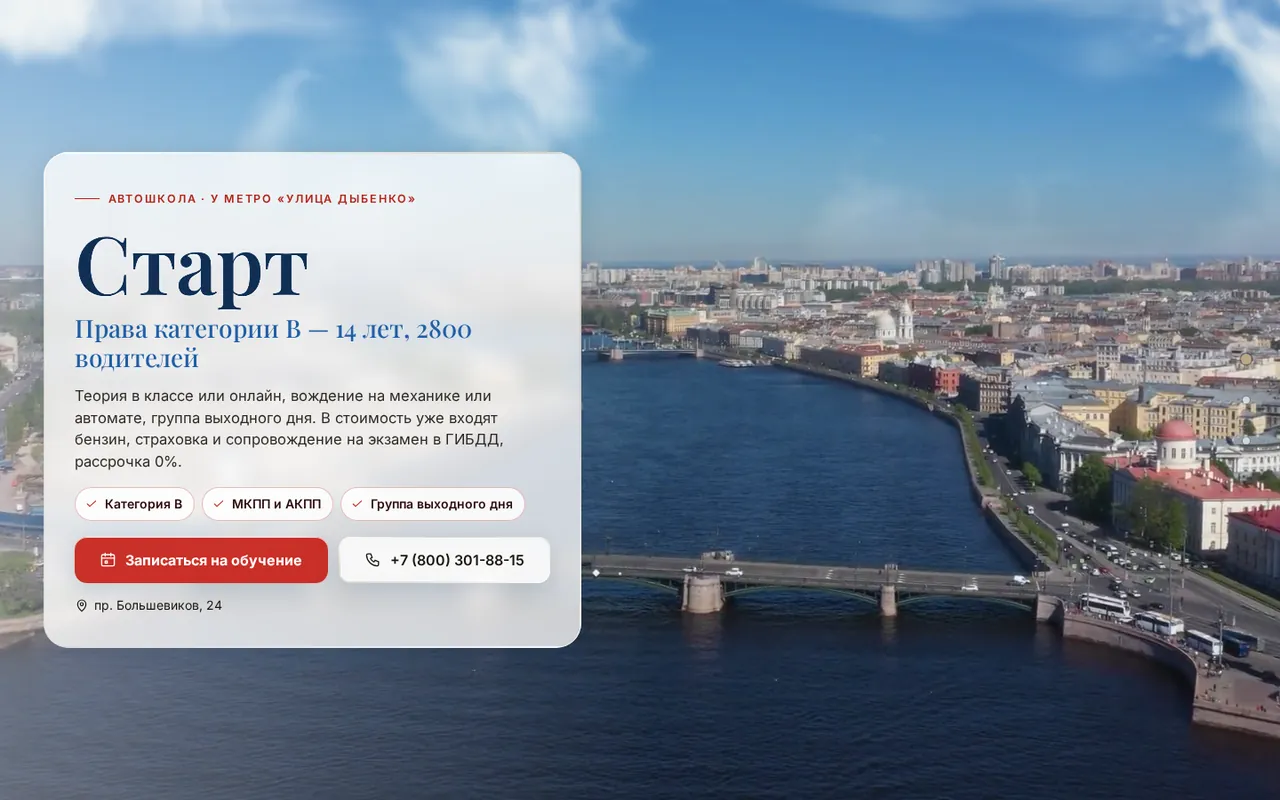
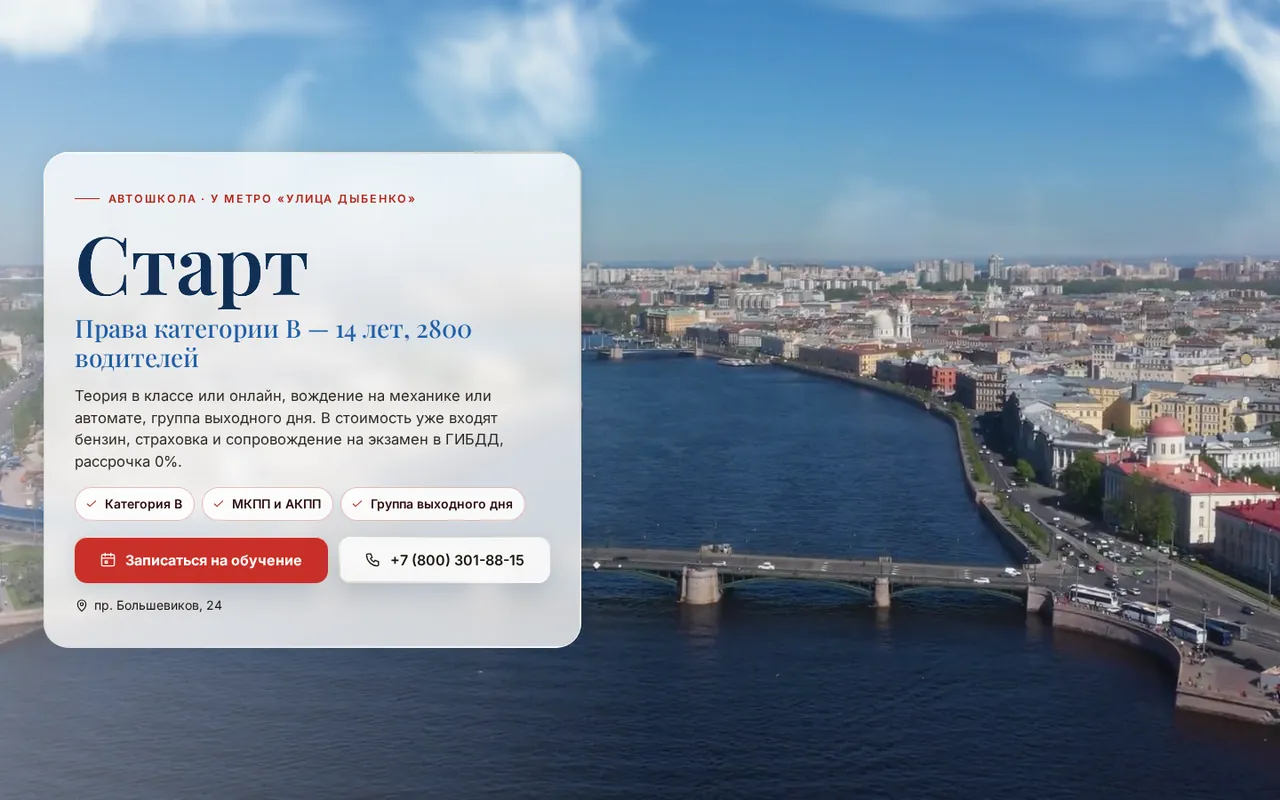
Текст не выходит за плашки: название первого экрана подгоняется под плашку, витрина показывает экраны целиком; цены на узких телефонах

diff --git a/vitrina/index.html b/vitrina/index.html
@@ -31,13 +31,14 @@ h1{text-wrap:balance;font-size:clamp(30px,3.4vw,48px);line-height:1.08;letter-sp
 .stage{position:relative;width:100%;aspect-ratio:16/11.2}
 .dv{position:absolute}
 .dv img{display:block;width:100%;height:100%;object-fit:cover;object-position:center top}
+.mon .scr img,.lap .scr img{height:auto}
 .mon{left:18%;top:0;width:68%}
-.mon .scr{aspect-ratio:16/9;padding:1.1%;background:#0e1116;border-radius:14px;box-shadow:0 30px 60px -20px rgba(20,35,58,.35)}
+.mon .scr{padding:1.1%;background:#0e1116;border-radius:14px;box-shadow:0 30px 60px -20px rgba(20,35,58,.35)}
 .mon .scr img{border-radius:6px}
 .mon .neck{width:14%;aspect-ratio:1/.95;margin:0 auto;background:linear-gradient(90deg,#c9d0d8,#eef1f4 45%,#c3cad2);clip-path:polygon(18% 0,82% 0,100% 100%,0 100%)}
 .mon .foot{width:36%;aspect-ratio:36/1.5;margin:-1px auto 0;border-radius:6px 6px 3px 3px;background:linear-gradient(180deg,#e9edf1,#b9c1ca);box-shadow:0 12px 20px -8px rgba(20,35,58,.4)}
 .lap{left:0;bottom:4%;width:46%}
-.lap .scr{aspect-ratio:16/10;padding:2.2% 2.2% 3%;background:#0b0d11;border-radius:16px 16px 4px 4px;position:relative;box-shadow:0 0 0 1px #2a2f37 inset}
+.lap .scr{padding:2.2% 2.2% 3%;background:#0b0d11;border-radius:16px 16px 4px 4px;position:relative;box-shadow:0 0 0 1px #2a2f37 inset}
 .lap .scr::before{content:"";position:absolute;top:1%;left:50%;width:.9%;aspect-ratio:1;border-radius:50%;background:#2b3442;transform:translateX(-50%)}
 .lap .scr img{border-radius:3px}
 .lap .base{position:relative;height:0;padding-bottom:3.2%;margin:0 -7%;background:linear-gradient(180deg,#e7ebef 0,#c8cfd7 60%,#9aa3ad 100%);border-radius:0 0 18px 18px/0 0 60% 60%;box-shadow:0 22px 30px -14px rgba(20,35,58,.45)}
@@ -80,7 +81,7 @@ h1{text-wrap:balance;font-size:clamp(30px,3.4vw,48px);line-height:1.08;letter-sp
   <div class="stage" id="stage" aria-label="Новый сайт на компьютере, ноутбуке и телефоне">
     <div class="dv mon"><div class="scr"><img src="img/monitor.webp?v=2" alt="" width="1600" height="900"></div><div class="neck"></div><div class="foot"></div></div>
     <div class="dv lap"><div class="scr"><img src="img/laptop.webp?v=2" alt="" width="1280" height="800"></div><div class="base"></div></div>
-    <div class="dv ph" id="ph"><div class="ss-phone z-phone" data-frame="pro" style="width: 340px; height: 714.953px; padding: 2.38318px; border-radius: 61.1682px; --ps: 0.794392523364486px;"><svg class="ss-phone__bands" width="100%" height="100%" aria-hidden="true"><defs><linearGradient id="ph-band" x1="0.2" y1="0" x2="0.8" y2="1"><stop offset="0" style="stop-color: var(--ss-phone-band-1);"></stop><stop offset="0.22" style="stop-color: var(--ss-phone-band-2);"></stop><stop offset="0.48" style="stop-color: var(--ss-phone-band-3);"></stop><stop offset="0.74" style="stop-color: var(--ss-phone-band-4);"></stop><stop offset="1" style="stop-color: var(--ss-phone-band-5);"></stop></linearGradient><linearGradient id="ph-clay" x1="0" y1="0" x2="0" y2="1"><stop offset="0" style="stop-color: var(--ss-phone-clay-top);"></stop><stop offset="1" style="stop-color: var(--ss-phone-clay-bottom);"></stop></linearGradient></defs><g transform="translate(10.327102803738317 10.327102803738317)" stroke-linejoin="round"><path d="M262.94 0.00L267.09 0.06L270.49 0.24L273.65 0.53L276.65 0.94L279.51 1.47L282.27 2.11L284.93 2.87L287.50 3.74L289.97 4.72L292.36 5.81L294.65 7.02L296.85 8.33L298.96 9.75L300.98 11.27L302.90 12.90L304.72 14.62L306.45 16.45L308.08 18.37L309.60 20.38L311.02 22.49L312.33 24.70L313.53 26.99L314.63 29.37L315.61 31.85L316.48 34.41L317.24 37.07L317.88 39.83L318.41 42.70L318.82 45.69L319.11 48.85L319.29 52.25L319.35 56.40L319.35 637.90L319.29 642.04L319.11 645.45L318.82 648.60L318.41 651.60L317.88 654.47L317.24 657.23L316.48 659.89L315.61 662.45L314.63 664.92L313.53 667.31L312.33 669.60L311.02 671.80L309.60 673.91L308.08 675.93L306.45 677.85L304.72 679.68L302.90 681.40L300.98 683.03L298.96 684.55L296.85 685.97L294.65 687.28L292.36 688.49L289.97 689.58L287.50 690.56L284.93 691.43L282.27 692.19L279.51 692.83L276.65 693.36L273.65 693.77L270.49 694.06L267.09 694.24L262.94 694.30L56.40 694.30L52.25 694.24L48.85 694.06L45.69 693.77L42.70 693.36L39.83 692.83L37.07 692.19L34.41 691.43L31.85 690.56L29.37 689.58L26.99 688.49L24.70 687.28L22.49 685.97L20.38 684.55L18.37 683.03L16.45 681.40L14.62 679.68L12.90 677.85L11.27 675.93L9.75 673.91L8.33 671.80L7.02 669.60L5.81 667.31L4.72 664.92L3.74 662.45L2.87 659.89L2.11 657.23L1.47 654.47L0.94 651.60L0.53 648.60L0.24 645.45L0.06 642.04L0.00 637.90L0.00 56.40L0.06 52.25L0.24 48.85L0.53 45.69L0.94 42.70L1.47 39.83L2.11 37.07L2.87 34.41L3.74 31.85L4.72 29.37L5.81 26.99L7.02 24.70L8.33 22.49L9.75 20.38L11.27 18.37L12.90 16.45L14.62 14.62L16.45 12.90L18.37 11.27L20.38 9.75L22.49 8.33L24.70 7.02L26.99 5.81L29.37 4.72L31.85 3.74L34.41 2.87L37.07 2.11L39.83 1.47L42.70 0.94L45.69 0.53L48.85 0.24L52.25 0.06L56.40 0.00Z" fill="none" stroke-width="20.654205607476634" stroke="url(#ph-band)"></path><path d="M262.94 0.00L267.09 0.06L270.49 0.24L273.65 0.53L276.65 0.94L279.51 1.47L282.27 2.11L284.93 2.87L287.50 3.74L289.97 4.72L292.36 5.81L294.65 7.02L296.85 8.33L298.96 9.75L300.98 11.27L302.90 12.90L304.72 14.62L306.45 16.45L308.08 18.37L309.60 20.38L311.02 22.49L312.33 24.70L313.53 26.99L314.63 29.37L315.61 31.85L316.48 34.41L317.24 37.07L317.88 39.83L318.41 42.70L318.82 45.69L319.11 48.85L319.29 52.25L319.35 56.40L319.35 637.90L319.29 642.04L319.11 645.45L318.82 648.60L318.41 651.60L317.88 654.47L317.24 657.23L316.48 659.89L315.61 662.45L314.63 664.92L313.53 667.31L312.33 669.60L311.02 671.80L309.60 673.91L308.08 675.93L306.45 677.85L304.72 679.68L302.90 681.40L300.98 683.03L298.96 684.55L296.85 685.97L294.65 687.28L292.36 688.49L289.97 689.58L287.50 690.56L284.93 691.43L282.27 692.19L279.51 692.83L276.65 693.36L273.65 693.77L270.49 694.06L267.09 694.24L262.94 694.30L56.40 694.30L52.25 694.24L48.85 694.06L45.69 693.77L42.70 693.36L39.83 692.83L37.07 692.19L34.41 691.43L31.85 690.56L29.37 689.58L26.99 688.49L24.70 687.28L22.49 685.97L20.38 684.55L18.37 683.03L16.45 681.40L14.62 679.68L12.90 677.85L11.27 675.93L9.75 673.91L8.33 671.80L7.02 669.60L5.81 667.31L4.72 664.92L3.74 662.45L2.87 659.89L2.11 657.23L1.47 654.47L0.94 651.60L0.53 648.60L0.24 645.45L0.06 642.04L0.00 637.90L0.00 56.40L0.06 52.25L0.24 48.85L0.53 45.69L0.94 42.70L1.47 39.83L2.11 37.07L2.87 34.41L3.74 31.85L4.72 29.37L5.81 26.99L7.02 24.70L8.33 22.49L9.75 20.38L11.27 18.37L12.90 16.45L14.62 14.62L16.45 12.90L18.37 11.27L20.38 9.75L22.49 8.33L24.70 7.02L26.99 5.81L29.37 4.72L31.85 3.74L34.41 2.87L37.07 2.11L39.83 1.47L42.70 0.94L45.69 0.53L48.85 0.24L52.25 0.06L56.40 0.00Z" fill="none" stroke-width="15.88785046728972" style="stroke: var(--ss-phone-rim);"></path><path d="M262.94 0.00L267.09 0.06L270.49 0.24L273.65 0.53L276.65 0.94L279.51 1.47L282.27 2.11L284.93 2.87L287.50 3.74L289.97 4.72L292.36 5.81L294.65 7.02L296.85 8.33L298.96 9.75L300.98 11.27L302.90 12.90L304.72 14.62L306.45 16.45L308.08 18.37L309.60 20.38L311.02 22.49L312.33 24.70L313.53 26.99L314.63 29.37L315.61 31.85L316.48 34.41L317.24 37.07L317.88 39.83L318.41 42.70L318.82 45.69L319.11 48.85L319.29 52.25L319.35 56.40L319.35 637.90L319.29 642.04L319.11 645.45L318.82 648.60L318.41 651.60L317.88 654.47L317.24 657.23L316.48 659.89L315.61 662.45L314.63 664.92L313.53 667.31L312.33 669.60L311.02 671.80L309.60 673.91L308.08 675.93L306.45 677.85L304.72 679.68L302.90 681.40L300.98 683.03L298.96 684.55L296.85 685.97L294.65 687.28L292.36 688.49L289.97 689.58L287.50 690.56L284.93 691.43L282.27 692.19L279.51 692.83L276.65 693.36L273.65 693.77L270.49 694.06L267.09 694.24L262.94 694.30L56.40 694.30L52.25 694.24L48.85 694.06L45.69 693.77L42.70 693.36L39.83 692.83L37.07 692.19L34.41 691.43L31.85 690.56L29.37 689.58L26.99 688.49L24.70 687.28L22.49 685.97L20.38 684.55L18.37 683.03L16.45 681.40L14.62 679.68L12.90 677.85L11.27 675.93L9.75 673.91L8.33 671.80L7.02 669.60L5.81 667.31L4.72 664.92L3.74 662.45L2.87 659.89L2.11 657.23L1.47 654.47L0.94 651.60L0.53 648.60L0.24 645.45L0.06 642.04L0.00 637.90L0.00 56.40L0.06 52.25L0.24 48.85L0.53 45.69L0.94 42.70L1.47 39.83L2.11 37.07L2.87 34.41L3.74 31.85L4.72 29.37L5.81 26.99L7.02 24.70L8.33 22.49L9.75 20.38L11.27 18.37L12.90 16.45L14.62 14.62L16.45 12.90L18.37 11.27L20.38 9.75L22.49 8.33L24.70 7.02L26.99 5.81L29.37 4.72L31.85 3.74L34.41 2.87L37.07 2.11L39.83 1.47L42.70 0.94L45.69 0.53L48.85 0.24L52.25 0.06L56.40 0.00Z" fill="none" stroke-width="14.69626168224299" style="stroke: var(--ss-phone-glass);"></path></g></svg><div class="ss-phone__glass" style="padding: 7.94393px; border-radius: 58.785px;"><div class="ss-phone__window" style="width: 319.346px; height: 694.299px; clip-path: path(&quot;M 262.94 0 L 267.09 0.06 L 270.49 0.24 L 273.65 0.53 L 276.65 0.94 L 279.51 1.47 L 282.27 2.11 L 284.93 2.87 L 287.5 3.74 L 289.97 4.72 L 292.36 5.81 L 294.65 7.02 L 296.85 8.33 L 298.96 9.75 L 300.98 11.27 L 302.9 12.9 L 304.72 14.62 L 306.45 16.45 L 308.08 18.37 L 309.6 20.38 L 311.02 22.49 L 312.33 24.7 L 313.53 26.99 L 314.63 29.37 L 315.61 31.85 L 316.48 34.41 L 317.24 37.07 L 317.88 39.83 L 318.41 42.7 L 318.82 45.69 L 319.11 48.85 L 319.29 52.25 L 319.35 56.4 L 319.35 637.9 L 319.29 642.04 L 319.11 645.45 L 318.82 648.6 L 318.41 651.6 L 317.88 654.47 L 317.24 657.23 L 316.48 659.89 L 315.61 662.45 L 314.63 664.92 L 313.53 667.31 L 312.33 669.6 L 311.02 671.8 L 309.6 673.91 L 308.08 675.93 L 306.45 677.85 L 304.72 679.68 L 302.9 681.4 L 300.98 683.03 L 298.96 684.55 L 296.85 685.97 L 294.65 687.28 L 292.36 688.49 L 289.97 689.58 L 287.5 690.56 L 284.93 691.43 L 282.27 692.19 L 279.51 692.83 L 276.65 693.36 L 273.65 693.77 L 270.49 694.06 L 267.09 694.24 L 262.94 694.3 L 56.4 694.3 L 52.25 694.24 L 48.85 694.06 L 45.69 693.77 L 42.7 693.36 L 39.83 692.83 L 37.07 692.19 L 34.41 691.43 L 31.85 690.56 L 29.37 689.58 L 26.99 688.49 L 24.7 687.28 L 22.49 685.97 L 20.38 684.55 L 18.37 683.03 L 16.45 681.4 L 14.62 679.68 L 12.9 677.85 L 11.27 675.93 L 9.75 673.91 L 8.33 671.8 L 7.02 669.6 L 5.81 667.31 L 4.72 664.92 L 3.74 662.45 L 2.87 659.89 L 2.11 657.23 L 1.47 654.47 L 0.94 651.6 L 0.53 648.6 L 0.24 645.45 L 0.06 642.04 L 0 637.9 L 0 56.4 L 0.06 52.25 L 0.24 48.85 L 0.53 45.69 L 0.94 42.7 L 1.47 39.83 L 2.11 37.07 L 2.87 34.41 L 3.74 31.85 L 4.72 29.37 L 5.81 26.99 L 7.02 24.7 L 8.33 22.49 L 9.75 20.38 L 11.27 18.37 L 12.9 16.45 L 14.62 14.62 L 16.45 12.9 L 18.37 11.27 L 20.38 9.75 L 22.49 8.33 L 24.7 7.02 L 26.99 5.81 L 29.37 4.72 L 31.85 3.74 L 34.41 2.87 L 37.07 2.11 L 39.83 1.47 L 42.7 0.94 L 45.69 0.53 L 48.85 0.24 L 52.25 0.06 L 56.4 0 Z&quot;);"><div class="ss-phone__screen" style="width: 402px; height: 874px; transform: scale(0.794393); --ss-screen-r: 64px;"><div class="ss-phone__status"><span class="ss-phone__time">10:02</span><span class="ss-phone__glyphs"><svg viewBox="0 0 20.33 13.67" width="20.33" height="13.67" class="ss-phone__glyph ss-phone__signal"><rect x="0" y="7.34" width="3.333" height="6.33" rx="1.667" fill="currentColor"></rect><rect x="5.667" y="5" width="3.333" height="8.67" rx="1.667" fill="currentColor"></rect><rect x="11.334" y="2.67" width="3.333" height="11" rx="1.667" fill="currentColor"></rect><rect x="17.000999999999998" y="0" width="3.333" height="13.67" rx="1.667" fill="currentColor"></rect></svg><svg viewBox="0 0 19.33 14.33" width="19.33" height="14.33" class="ss-phone__glyph ss-phone__wifi"><path fill-rule="evenodd" fill="currentColor" d="M0.415933 5.54283C0.902185 6.04412 1.66017 5.95818 2.27513 5.41393C4.30595 3.58064 6.83731 2.63535 9.66901 2.63535C12.5007 2.63535 15.0464 3.60928 17.0629 5.41393C17.6636 5.97251 18.4215 6.0298 18.9221 5.54283C19.4226 5.02722 19.4942 4.2538 18.9793 3.70954C16.8341 1.51819 13.3302 0 9.66901 0C6.00783 0 2.48965 1.53251 0.358727 3.72387C-0.156127 4.2538 -0.0989213 5.02722 0.415933 5.55715L0.415933 5.54283ZM3.94841 9.13779C4.50617 9.68205 5.22124 9.62476 5.85051 9.10915C6.88022 8.29276 8.25316 7.73418 9.66901 7.7485C11.0706 7.7485 12.4435 8.29276 13.4875 9.12347C14.1168 9.63908 14.8605 9.66773 15.4039 9.12347C15.9331 8.57921 16.0189 7.7485 15.4611 7.23289C14.0739 5.98683 11.9859 5.11315 9.68332 5.11315C7.38077 5.11315 5.27845 5.98683 3.9055 7.23289C3.41925 7.69121 3.31914 8.47896 3.96271 9.13779L3.94841 9.13779ZM8.72511 13.8929C9.34008 14.4801 9.98365 14.4801 10.5986 13.8929L11.757 12.7757C12.372 12.1742 12.5007 11.4151 11.7999 10.8995C11.2136 10.4841 10.4699 10.212 9.66901 10.212C8.86813 10.212 8.11015 10.4841 7.53809 10.9138C6.83731 11.4151 6.98033 12.1885 7.59529 12.7757L8.73942 13.8929L8.72511 13.8929Z"></path></svg><svg viewBox="0 0 29.33 13.67" width="29.33" height="13.67" class="ss-phone__glyph ss-phone__battery"><path fill="currentColor" d="M0 6.4C0 4.15979 0 3.03969 0.435974 2.18404C0.819467 1.43139 1.43139 0.819467 2.18404 0.435974C3.03969 0 4.15979 0 6.4 0L19.933 0C22.1732 0 23.2933 0 24.149 0.435974C24.9016 0.819467 25.5135 1.43139 25.897 2.18404C26.333 3.03969 26.333 4.15979 26.333 6.4L26.333 7.26666C26.333 9.50687 26.333 10.627 25.897 11.4826C25.5135 12.2353 24.9016 12.8472 24.149 13.2307C23.2933 13.6667 22.1732 13.6667 19.933 13.6667L6.4 13.6667C4.15979 13.6667 3.03969 13.6667 2.18404 13.2307C1.43139 12.8472 0.819467 12.2353 0.435974 11.4826C0 10.627 0 9.50687 0 7.26666L0 6.4Z"></path><path fill-rule="evenodd" fill="currentColor" transform="translate(27.33 4.33)" d="M0 0L0 5C0.601505 4.8625 2 3.75 2 2.5C2 1.25 0.601505 0.1375 0 0Z"></path></svg></span></div><span class="ss-phone__island"></span><div class="ss-phone__content" data-status="true"><img class="ph-shot" src="img/phone.webp?v=2" alt="Новый сайт автошколы «Старт» на телефоне" width="393" height="790"></div><span class="ss-phone__home"></span></div></div></div></div></div>
+    <div class="dv ph" id="ph"><div class="ss-phone z-phone" data-frame="pro" style="width: 340px; height: 714.953px; padding: 2.38318px; border-radius: 61.1682px; --ps: 0.794392523364486px;"><svg class="ss-phone__bands" width="100%" height="100%" aria-hidden="true"><defs><linearGradient id="ph-band" x1="0.2" y1="0" x2="0.8" y2="1"><stop offset="0" style="stop-color: var(--ss-phone-band-1);"></stop><stop offset="0.22" style="stop-color: var(--ss-phone-band-2);"></stop><stop offset="0.48" style="stop-color: var(--ss-phone-band-3);"></stop><stop offset="0.74" style="stop-color: var(--ss-phone-band-4);"></stop><stop offset="1" style="stop-color: var(--ss-phone-band-5);"></stop></linearGradient><linearGradient id="ph-clay" x1="0" y1="0" x2="0" y2="1"><stop offset="0" style="stop-color: var(--ss-phone-clay-top);"></stop><stop offset="1" style="stop-color: var(--ss-phone-clay-bottom);"></stop></linearGradient></defs><g transform="translate(10.327102803738317 10.327102803738317)" stroke-linejoin="round"><path d="M262.94 0.00L267.09 0.06L270.49 0.24L273.65 0.53L276.65 0.94L279.51 1.47L282.27 2.11L284.93 2.87L287.50 3.74L289.97 4.72L292.36 5.81L294.65 7.02L296.85 8.33L298.96 9.75L300.98 11.27L302.90 12.90L304.72 14.62L306.45 16.45L308.08 18.37L309.60 20.38L311.02 22.49L312.33 24.70L313.53 26.99L314.63 29.37L315.61 31.85L316.48 34.41L317.24 37.07L317.88 39.83L318.41 42.70L318.82 45.69L319.11 48.85L319.29 52.25L319.35 56.40L319.35 637.90L319.29 642.04L319.11 645.45L318.82 648.60L318.41 651.60L317.88 654.47L317.24 657.23L316.48 659.89L315.61 662.45L314.63 664.92L313.53 667.31L312.33 669.60L311.02 671.80L309.60 673.91L308.08 675.93L306.45 677.85L304.72 679.68L302.90 681.40L300.98 683.03L298.96 684.55L296.85 685.97L294.65 687.28L292.36 688.49L289.97 689.58L287.50 690.56L284.93 691.43L282.27 692.19L279.51 692.83L276.65 693.36L273.65 693.77L270.49 694.06L267.09 694.24L262.94 694.30L56.40 694.30L52.25 694.24L48.85 694.06L45.69 693.77L42.70 693.36L39.83 692.83L37.07 692.19L34.41 691.43L31.85 690.56L29.37 689.58L26.99 688.49L24.70 687.28L22.49 685.97L20.38 684.55L18.37 683.03L16.45 681.40L14.62 679.68L12.90 677.85L11.27 675.93L9.75 673.91L8.33 671.80L7.02 669.60L5.81 667.31L4.72 664.92L3.74 662.45L2.87 659.89L2.11 657.23L1.47 654.47L0.94 651.60L0.53 648.60L0.24 645.45L0.06 642.04L0.00 637.90L0.00 56.40L0.06 52.25L0.24 48.85L0.53 45.69L0.94 42.70L1.47 39.83L2.11 37.07L2.87 34.41L3.74 31.85L4.72 29.37L5.81 26.99L7.02 24.70L8.33 22.49L9.75 20.38L11.27 18.37L12.90 16.45L14.62 14.62L16.45 12.90L18.37 11.27L20.38 9.75L22.49 8.33L24.70 7.02L26.99 5.81L29.37 4.72L31.85 3.74L34.41 2.87L37.07 2.11L39.83 1.47L42.70 0.94L45.69 0.53L48.85 0.24L52.25 0.06L56.40 0.00Z" fill="none" stroke-width="20.654205607476634" stroke="url(#ph-band)"></path><path d="M262.94 0.00L267.09 0.06L270.49 0.24L273.65 0.53L276.65 0.94L279.51 1.47L282.27 2.11L284.93 2.87L287.50 3.74L289.97 4.72L292.36 5.81L294.65 7.02L296.85 8.33L298.96 9.75L300.98 11.27L302.90 12.90L304.72 14.62L306.45 16.45L308.08 18.37L309.60 20.38L311.02 22.49L312.33 24.70L313.53 26.99L314.63 29.37L315.61 31.85L316.48 34.41L317.24 37.07L317.88 39.83L318.41 42.70L318.82 45.69L319.11 48.85L319.29 52.25L319.35 56.40L319.35 637.90L319.29 642.04L319.11 645.45L318.82 648.60L318.41 651.60L317.88 654.47L317.24 657.23L316.48 659.89L315.61 662.45L314.63 664.92L313.53 667.31L312.33 669.60L311.02 671.80L309.60 673.91L308.08 675.93L306.45 677.85L304.72 679.68L302.90 681.40L300.98 683.03L298.96 684.55L296.85 685.97L294.65 687.28L292.36 688.49L289.97 689.58L287.50 690.56L284.93 691.43L282.27 692.19L279.51 692.83L276.65 693.36L273.65 693.77L270.49 694.06L267.09 694.24L262.94 694.30L56.40 694.30L52.25 694.24L48.85 694.06L45.69 693.77L42.70 693.36L39.83 692.83L37.07 692.19L34.41 691.43L31.85 690.56L29.37 689.58L26.99 688.49L24.70 687.28L22.49 685.97L20.38 684.55L18.37 683.03L16.45 681.40L14.62 679.68L12.90 677.85L11.27 675.93L9.75 673.91L8.33 671.80L7.02 669.60L5.81 667.31L4.72 664.92L3.74 662.45L2.87 659.89L2.11 657.23L1.47 654.47L0.94 651.60L0.53 648.60L0.24 645.45L0.06 642.04L0.00 637.90L0.00 56.40L0.06 52.25L0.24 48.85L0.53 45.69L0.94 42.70L1.47 39.83L2.11 37.07L2.87 34.41L3.74 31.85L4.72 29.37L5.81 26.99L7.02 24.70L8.33 22.49L9.75 20.38L11.27 18.37L12.90 16.45L14.62 14.62L16.45 12.90L18.37 11.27L20.38 9.75L22.49 8.33L24.70 7.02L26.99 5.81L29.37 4.72L31.85 3.74L34.41 2.87L37.07 2.11L39.83 1.47L42.70 0.94L45.69 0.53L48.85 0.24L52.25 0.06L56.40 0.00Z" fill="none" stroke-width="15.88785046728972" style="stroke: var(--ss-phone-rim);"></path><path d="M262.94 0.00L267.09 0.06L270.49 0.24L273.65 0.53L276.65 0.94L279.51 1.47L282.27 2.11L284.93 2.87L287.50 3.74L289.97 4.72L292.36 5.81L294.65 7.02L296.85 8.33L298.96 9.75L300.98 11.27L302.90 12.90L304.72 14.62L306.45 16.45L308.08 18.37L309.60 20.38L311.02 22.49L312.33 24.70L313.53 26.99L314.63 29.37L315.61 31.85L316.48 34.41L317.24 37.07L317.88 39.83L318.41 42.70L318.82 45.69L319.11 48.85L319.29 52.25L319.35 56.40L319.35 637.90L319.29 642.04L319.11 645.45L318.82 648.60L318.41 651.60L317.88 654.47L317.24 657.23L316.48 659.89L315.61 662.45L314.63 664.92L313.53 667.31L312.33 669.60L311.02 671.80L309.60 673.91L308.08 675.93L306.45 677.85L304.72 679.68L302.90 681.40L300.98 683.03L298.96 684.55L296.85 685.97L294.65 687.28L292.36 688.49L289.97 689.58L287.50 690.56L284.93 691.43L282.27 692.19L279.51 692.83L276.65 693.36L273.65 693.77L270.49 694.06L267.09 694.24L262.94 694.30L56.40 694.30L52.25 694.24L48.85 694.06L45.69 693.77L42.70 693.36L39.83 692.83L37.07 692.19L34.41 691.43L31.85 690.56L29.37 689.58L26.99 688.49L24.70 687.28L22.49 685.97L20.38 684.55L18.37 683.03L16.45 681.40L14.62 679.68L12.90 677.85L11.27 675.93L9.75 673.91L8.33 671.80L7.02 669.60L5.81 667.31L4.72 664.92L3.74 662.45L2.87 659.89L2.11 657.23L1.47 654.47L0.94 651.60L0.53 648.60L0.24 645.45L0.06 642.04L0.00 637.90L0.00 56.40L0.06 52.25L0.24 48.85L0.53 45.69L0.94 42.70L1.47 39.83L2.11 37.07L2.87 34.41L3.74 31.85L4.72 29.37L5.81 26.99L7.02 24.70L8.33 22.49L9.75 20.38L11.27 18.37L12.90 16.45L14.62 14.62L16.45 12.90L18.37 11.27L20.38 9.75L22.49 8.33L24.70 7.02L26.99 5.81L29.37 4.72L31.85 3.74L34.41 2.87L37.07 2.11L39.83 1.47L42.70 0.94L45.69 0.53L48.85 0.24L52.25 0.06L56.40 0.00Z" fill="none" stroke-width="14.69626168224299" style="stroke: var(--ss-phone-glass);"></path></g></svg><div class="ss-phone__glass" style="padding: 7.94393px; border-radius: 58.785px;"><div class="ss-phone__window" style="width: 319.346px; height: 694.299px; clip-path: path(&quot;M 262.94 0 L 267.09 0.06 L 270.49 0.24 L 273.65 0.53 L 276.65 0.94 L 279.51 1.47 L 282.27 2.11 L 284.93 2.87 L 287.5 3.74 L 289.97 4.72 L 292.36 5.81 L 294.65 7.02 L 296.85 8.33 L 298.96 9.75 L 300.98 11.27 L 302.9 12.9 L 304.72 14.62 L 306.45 16.45 L 308.08 18.37 L 309.6 20.38 L 311.02 22.49 L 312.33 24.7 L 313.53 26.99 L 314.63 29.37 L 315.61 31.85 L 316.48 34.41 L 317.24 37.07 L 317.88 39.83 L 318.41 42.7 L 318.82 45.69 L 319.11 48.85 L 319.29 52.25 L 319.35 56.4 L 319.35 637.9 L 319.29 642.04 L 319.11 645.45 L 318.82 648.6 L 318.41 651.6 L 317.88 654.47 L 317.24 657.23 L 316.48 659.89 L 315.61 662.45 L 314.63 664.92 L 313.53 667.31 L 312.33 669.6 L 311.02 671.8 L 309.6 673.91 L 308.08 675.93 L 306.45 677.85 L 304.72 679.68 L 302.9 681.4 L 300.98 683.03 L 298.96 684.55 L 296.85 685.97 L 294.65 687.28 L 292.36 688.49 L 289.97 689.58 L 287.5 690.56 L 284.93 691.43 L 282.27 692.19 L 279.51 692.83 L 276.65 693.36 L 273.65 693.77 L 270.49 694.06 L 267.09 694.24 L 262.94 694.3 L 56.4 694.3 L 52.25 694.24 L 48.85 694.06 L 45.69 693.77 L 42.7 693.36 L 39.83 692.83 L 37.07 692.19 L 34.41 691.43 L 31.85 690.56 L 29.37 689.58 L 26.99 688.49 L 24.7 687.28 L 22.49 685.97 L 20.38 684.55 L 18.37 683.03 L 16.45 681.4 L 14.62 679.68 L 12.9 677.85 L 11.27 675.93 L 9.75 673.91 L 8.33 671.8 L 7.02 669.6 L 5.81 667.31 L 4.72 664.92 L 3.74 662.45 L 2.87 659.89 L 2.11 657.23 L 1.47 654.47 L 0.94 651.6 L 0.53 648.6 L 0.24 645.45 L 0.06 642.04 L 0 637.9 L 0 56.4 L 0.06 52.25 L 0.24 48.85 L 0.53 45.69 L 0.94 42.7 L 1.47 39.83 L 2.11 37.07 L 2.87 34.41 L 3.74 31.85 L 4.72 29.37 L 5.81 26.99 L 7.02 24.7 L 8.33 22.49 L 9.75 20.38 L 11.27 18.37 L 12.9 16.45 L 14.62 14.62 L 16.45 12.9 L 18.37 11.27 L 20.38 9.75 L 22.49 8.33 L 24.7 7.02 L 26.99 5.81 L 29.37 4.72 L 31.85 3.74 L 34.41 2.87 L 37.07 2.11 L 39.83 1.47 L 42.7 0.94 L 45.69 0.53 L 48.85 0.24 L 52.25 0.06 L 56.4 0 Z&quot;);"><div class="ss-phone__screen" style="width: 402px; height: 874px; transform: scale(0.794393); --ss-screen-r: 64px;"><div class="ss-phone__status"><span class="ss-phone__time">10:02</span><span class="ss-phone__glyphs"><svg viewBox="0 0 20.33 13.67" width="20.33" height="13.67" class="ss-phone__glyph ss-phone__signal"><rect x="0" y="7.34" width="3.333" height="6.33" rx="1.667" fill="currentColor"></rect><rect x="5.667" y="5" width="3.333" height="8.67" rx="1.667" fill="currentColor"></rect><rect x="11.334" y="2.67" width="3.333" height="11" rx="1.667" fill="currentColor"></rect><rect x="17.000999999999998" y="0" width="3.333" height="13.67" rx="1.667" fill="currentColor"></rect></svg><svg viewBox="0 0 19.33 14.33" width="19.33" height="14.33" class="ss-phone__glyph ss-phone__wifi"><path fill-rule="evenodd" fill="currentColor" d="M0.415933 5.54283C0.902185 6.04412 1.66017 5.95818 2.27513 5.41393C4.30595 3.58064 6.83731 2.63535 9.66901 2.63535C12.5007 2.63535 15.0464 3.60928 17.0629 5.41393C17.6636 5.97251 18.4215 6.0298 18.9221 5.54283C19.4226 5.02722 19.4942 4.2538 18.9793 3.70954C16.8341 1.51819 13.3302 0 9.66901 0C6.00783 0 2.48965 1.53251 0.358727 3.72387C-0.156127 4.2538 -0.0989213 5.02722 0.415933 5.55715L0.415933 5.54283ZM3.94841 9.13779C4.50617 9.68205 5.22124 9.62476 5.85051 9.10915C6.88022 8.29276 8.25316 7.73418 9.66901 7.7485C11.0706 7.7485 12.4435 8.29276 13.4875 9.12347C14.1168 9.63908 14.8605 9.66773 15.4039 9.12347C15.9331 8.57921 16.0189 7.7485 15.4611 7.23289C14.0739 5.98683 11.9859 5.11315 9.68332 5.11315C7.38077 5.11315 5.27845 5.98683 3.9055 7.23289C3.41925 7.69121 3.31914 8.47896 3.96271 9.13779L3.94841 9.13779ZM8.72511 13.8929C9.34008 14.4801 9.98365 14.4801 10.5986 13.8929L11.757 12.7757C12.372 12.1742 12.5007 11.4151 11.7999 10.8995C11.2136 10.4841 10.4699 10.212 9.66901 10.212C8.86813 10.212 8.11015 10.4841 7.53809 10.9138C6.83731 11.4151 6.98033 12.1885 7.59529 12.7757L8.73942 13.8929L8.72511 13.8929Z"></path></svg><svg viewBox="0 0 29.33 13.67" width="29.33" height="13.67" class="ss-phone__glyph ss-phone__battery"><path fill="currentColor" d="M0 6.4C0 4.15979 0 3.03969 0.435974 2.18404C0.819467 1.43139 1.43139 0.819467 2.18404 0.435974C3.03969 0 4.15979 0 6.4 0L19.933 0C22.1732 0 23.2933 0 24.149 0.435974C24.9016 0.819467 25.5135 1.43139 25.897 2.18404C26.333 3.03969 26.333 4.15979 26.333 6.4L26.333 7.26666C26.333 9.50687 26.333 10.627 25.897 11.4826C25.5135 12.2353 24.9016 12.8472 24.149 13.2307C23.2933 13.6667 22.1732 13.6667 19.933 13.6667L6.4 13.6667C4.15979 13.6667 3.03969 13.6667 2.18404 13.2307C1.43139 12.8472 0.819467 12.2353 0.435974 11.4826C0 10.627 0 9.50687 0 7.26666L0 6.4Z"></path><path fill-rule="evenodd" fill="currentColor" transform="translate(27.33 4.33)" d="M0 0L0 5C0.601505 4.8625 2 3.75 2 2.5C2 1.25 0.601505 0.1375 0 0Z"></path></svg></span></div><span class="ss-phone__island"></span><div class="ss-phone__content" data-status="true"><img class="ph-shot" src="img/phone.webp?v=2" alt="Новый сайт автошколы «Старт» на телефоне" width="393" height="794"></div><span class="ss-phone__home"></span></div></div></div></div></div>
   </div>
 </main>
 <p class="note">Сайт сделан веб-агентством «Всети» по материалам открытого сайта автошколы.</p>

diff --git a/js/fit-title.js b/js/fit-title.js
@@ -1,0 +1,32 @@
+/* Название школы на первом экране всегда целиком внутри плашки (правило Сергея 13.11).
+   Слово набрано в одну строку (.hw, white-space:nowrap); если при заданном в CSS размере оно шире
+   строки заголовка, шрифт уменьшается ровно до ширины. Пересчёт — после загрузки шрифтов, при смене
+   ширины плашки, темы, контраста и размера шрифта (А−/А+). Меряется копия слова без анимации букв. */
+(function () {
+  'use strict';
+  var word = document.getElementById('heroWord');
+  if (!word || !word.parentElement) return;
+  var line = word.parentElement, raf = 0;
+  function fit() {
+    raf = 0;
+    word.style.fontSize = '';
+    var avail = line.clientWidth;
+    if (!avail) return;
+    var probe = document.createElement('span');
+    probe.className = word.className;
+    probe.textContent = word.getAttribute('aria-label') || word.textContent;
+    probe.setAttribute('aria-hidden', 'true');
+    probe.style.cssText = 'position:absolute;left:0;top:0;visibility:hidden;white-space:nowrap;display:inline-block;animation:none;opacity:0;pointer-events:none';
+    line.appendChild(probe);
+    var need = probe.getBoundingClientRect().width, size = parseFloat(getComputedStyle(probe).fontSize);
+    line.removeChild(probe);
+    if (need > avail && size) word.style.fontSize = Math.floor(size * avail / need * 0.97 * 10) / 10 + 'px';
+  }
+  function later() { if (!raf) raf = requestAnimationFrame(fit); }
+  fit();
+  if (document.fonts && document.fonts.ready) document.fonts.ready.then(later);
+  window.addEventListener('load', later);
+  window.addEventListener('resize', later);
+  if (window.ResizeObserver) new ResizeObserver(later).observe(line);
+  if (window.MutationObserver) new MutationObserver(later).observe(document.documentElement, { attributes: true, attributeFilter: ['style', 'class', 'data-theme', 'data-hc'] });
+})();

diff --git a/index.html b/index.html
@@ -1854,6 +1854,7 @@ html[data-hc="1"] :focus-visible{outline:3px solid #ffe14d;outline-offset:2px}
 <script src="js/clouds.js" defer></script>
 <script src="js/gulls.js" defer></script>
 <script src="js/title-b.js" defer></script>
+<script src="js/fit-title.js" defer></script>
 <script src="js/diag.js?v=1"></script>
 </body>
 </html>
